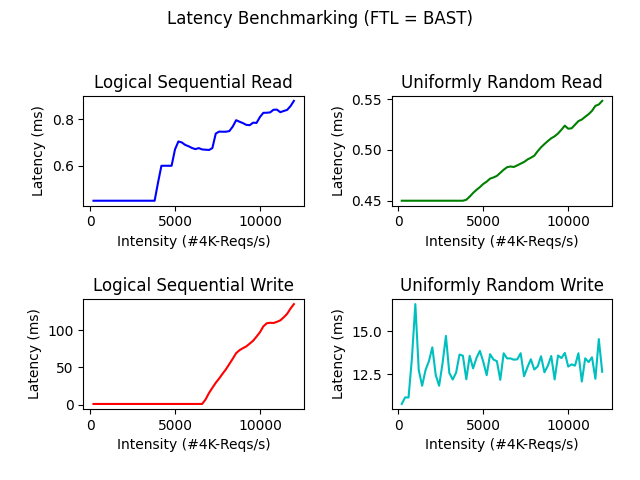
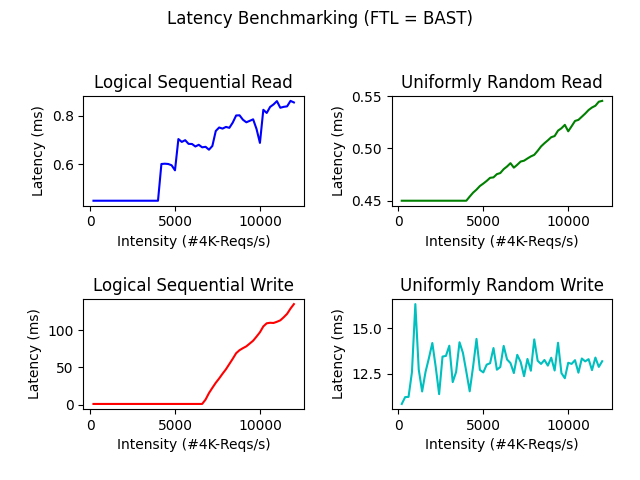
Fix benchmarking scheme

diff --git a/benchmark/la-bench.cpp b/benchmark/la-bench.cpp
@@ -198,8 +198,6 @@ bench_seq_read(double begin_time_ms)
     for (int intensity = INTENSITY_TICK; intensity <= MAX_INTENSITY;
          intensity += INTENSITY_TICK) {
         /** A round of benchmarking for given intensity. */
-        std::default_random_engine rand_gen;
-        std::uniform_real_distribution<double> rand_dist(0.95, 1.05);
         double delta_ms = 1000.0 / (double) intensity;
         double avg_time_used_ms = 0;
         int num_reqs = 0;
@@ -208,7 +206,7 @@ bench_seq_read(double begin_time_ms)
             double time_used_ms = issue_read(addr, PAGE_SIZE, cur_time_ms);
             avg_time_used_ms += time_used_ms / REQS_PER_ROUND;
 
-            cur_time_ms += delta_ms * rand_dist(rand_gen);
+            cur_time_ms += time_used_ms > delta_ms ? delta_ms : time_used_ms;
             addr = (addr + PAGE_SIZE) % FLASH_SPACE;
         }
 
@@ -237,8 +235,6 @@ bench_seq_write(double begin_time_ms)
     for (int intensity = INTENSITY_TICK; intensity <= MAX_INTENSITY;
          intensity += INTENSITY_TICK) {
         /** A round of benchmarking for given intensity. */
-        std::default_random_engine rand_gen;
-        std::uniform_real_distribution<double> rand_dist(0.95, 1.05);
         double delta_ms = 1000.0 / (double) intensity;
         double avg_time_used_ms = 0;
         int num_reqs = 0;
@@ -247,7 +243,7 @@ bench_seq_write(double begin_time_ms)
             double time_used_ms = issue_write(addr, PAGE_SIZE, cur_time_ms);
             avg_time_used_ms += time_used_ms / REQS_PER_ROUND;
 
-            cur_time_ms += delta_ms * rand_dist(rand_gen);
+            cur_time_ms += time_used_ms > delta_ms ? delta_ms : time_used_ms;
             addr = (addr + PAGE_SIZE) % FLASH_SPACE;
         }
 
@@ -280,7 +276,6 @@ bench_rnd_read(double begin_time_ms)
     for (int intensity = INTENSITY_TICK; intensity <= MAX_INTENSITY;
          intensity += INTENSITY_TICK) {
         /** A round of benchmarking for given intensity. */
-        std::uniform_real_distribution<double> delta_dist(0.95, 1.05);
         double delta_ms = 1000.0 / (double) intensity;
         double avg_time_used_ms = 0;
         int num_reqs = 0;
@@ -291,7 +286,7 @@ bench_rnd_read(double begin_time_ms)
             double time_used_ms = issue_read(addr, PAGE_SIZE, cur_time_ms);
             avg_time_used_ms += time_used_ms / REQS_PER_ROUND;
 
-            cur_time_ms += delta_ms * delta_dist(rand_gen);
+            cur_time_ms += time_used_ms > delta_ms ? delta_ms : time_used_ms;
         }
 
         printf("  %20d     %10.5lf\n", intensity, avg_time_used_ms);
@@ -323,7 +318,6 @@ bench_rnd_write(double begin_time_ms)
     for (int intensity = INTENSITY_TICK; intensity <= MAX_INTENSITY;
          intensity += INTENSITY_TICK) {
         /** A round of benchmarking for given intensity. */
-        std::uniform_real_distribution<double> delta_dist(0.95, 1.05);
         double delta_ms = 1000.0 / (double) intensity;
         double avg_time_used_ms = 0;
         int num_reqs = 0;
@@ -334,7 +328,7 @@ bench_rnd_write(double begin_time_ms)
             double time_used_ms = issue_write(addr, PAGE_SIZE, cur_time_ms);
             avg_time_used_ms += time_used_ms / REQS_PER_ROUND;
 
-            cur_time_ms += delta_ms * delta_dist(rand_gen);
+            cur_time_ms += time_used_ms > delta_ms ? delta_ms : time_used_ms;
         }
 
         printf("  %20d     %10.5lf\n", intensity, avg_time_used_ms);

diff --git a/benchmark/plot.py b/benchmark/plot.py
@@ -29,8 +29,12 @@ with open("results.txt") as fres:
             intensities[cur_bench].append(intensity)
             latencies[cur_bench].append(latency)
 
-            throughput = 1000.0 * (PAGE_SIZE / 1024) \
-                         / ((1000.0 / intensity) + latency)
+            delta_ms = 1000.0 / intensity
+            throughput = None
+            if latency > delta_ms:
+                throughput = 1000.0 * (PAGE_SIZE / 1024) / latency
+            else:
+                throughput = 1000.0 * (PAGE_SIZE / 1024) / delta_ms
             throughputs[cur_bench].append(throughput)
 
 # print(intensities)
